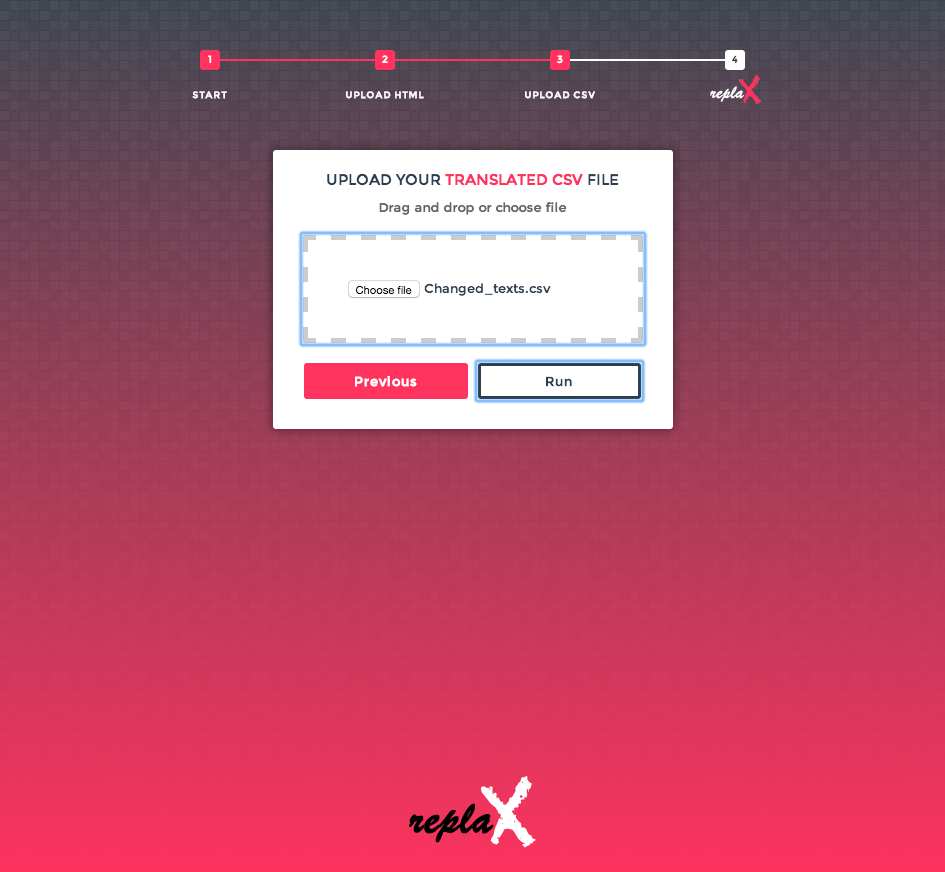
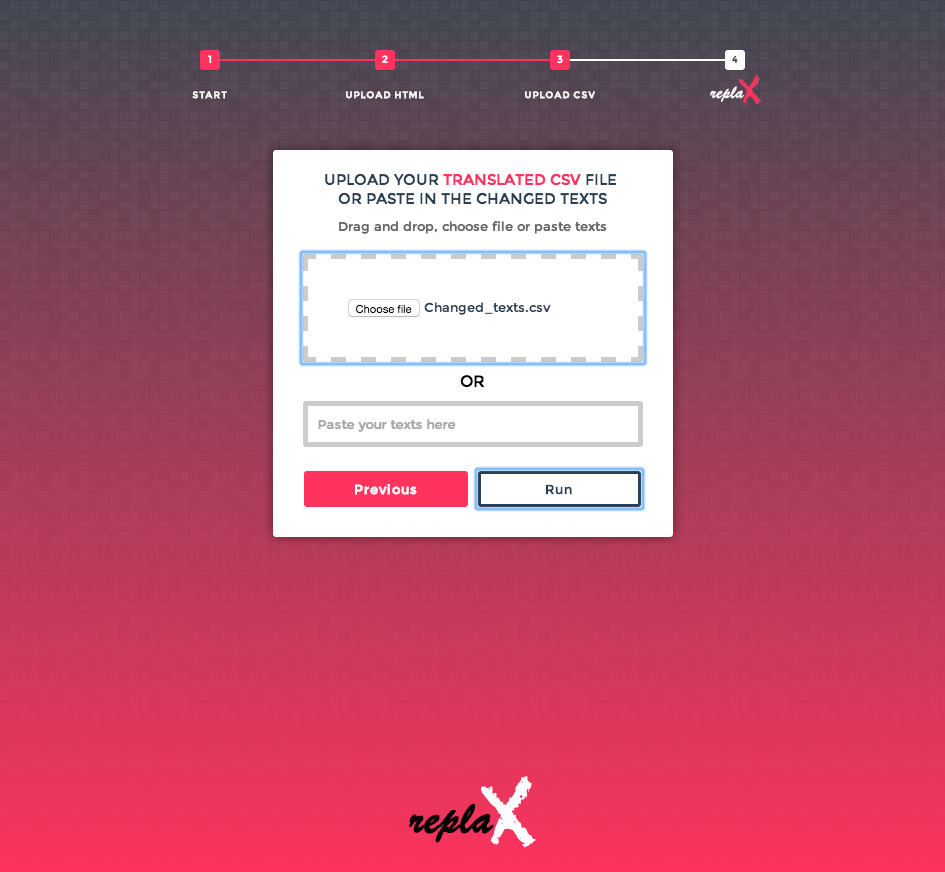
Docs (wiki)
Update screenshots

Changed region(s): [[0.2762, 0.1858, 0.7365, 0.6193]]

diff --git a/index.html b/index.html
@@ -91,8 +91,13 @@
       </fieldset>
 
       <fieldset class="fs-step-4">
-        <h2 class="fs-title">Upload your <span>translated csv</span> file</h2>
-        <h3 class="fs-subtitle">Drag and drop or choose file</h3>
+        <h2 class="fs-title">
+          Upload your <span>translated csv</span> file
+          <br />
+          or paste in the changed texts
+        </h2>
+        <h3 class="fs-subtitle">
+          Drag and drop, choose file or paste texts</h3>
         <input type="file" id="uploadcsv" accept=".csv" />
         <span>OR</span>
         <textarea id="pastecsv" placeholder="Paste your texts here"></textarea>
